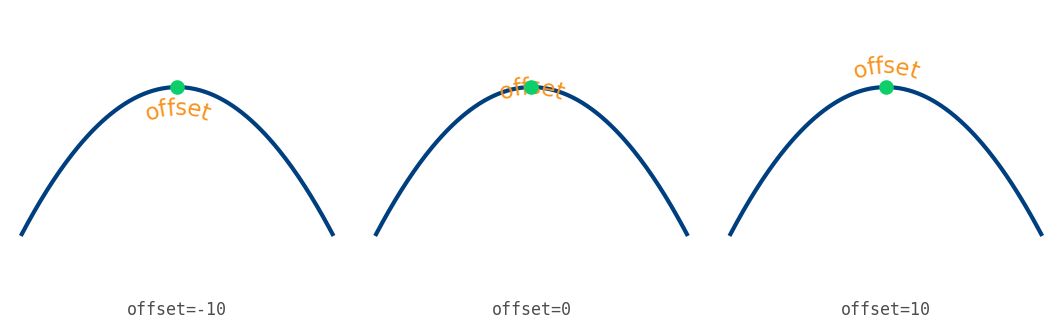
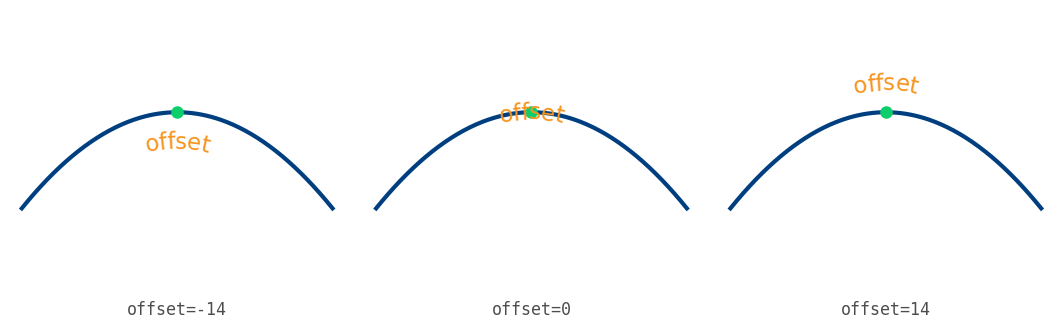
Refine offset example, add CI workflow and status badge

diff --git a/examples/example_05_offset_ladder.py b/examples/example_05_offset_ladder.py
@@ -15,7 +15,7 @@ import numpy as np
 from curved_text import curved_text
 from _style import PALETTE, figure, bare, caption, anchor_xy, save
 
-OFFSETS = [-10.0, 0.0, 10.0]
+OFFSETS = [-14.0, 0.0, 14.0]
 POS = 0.5
 
 
@@ -30,16 +30,20 @@ def make(images_dir):
         bare(ax)
         ax.plot(x, y, color=PALETTE["blue"], linewidth=2)
         ax.set_xlim(-0.05, 1.05)
-        ax.set_ylim(-0.15, 0.7)
-        curved_text(ax, x, y, "offset", pos=POS, anchor="center",
-                    offset=offset, color=PALETTE["gold"], fontsize=11)
+        ax.set_ylim(-0.35, 0.95)
+        label = curved_text(ax, x, y, "offset", pos=POS, anchor="center",
+                            offset=offset, color=PALETTE["gold"], fontsize=11)
+        # Lift the glyphs above the anchor dot so the dot never sits on the
+        # text -- it marks the on-curve reference the offset is measured from.
+        label.set_zorder(5)
         caption(ax, f"offset={offset:g}")
 
+    # Mark the on-curve anchor the offset is measured from, behind the glyphs.
     fig.canvas.draw()
     for ax in axes:
         ax_x, ax_y = anchor_xy(ax, x, y, POS)
-        ax.plot([ax_x], [ax_y], "o", color=PALETTE["green"], markersize=6,
-                zorder=5)
+        ax.plot([ax_x], [ax_y], "o", color=PALETTE["green"], markersize=5,
+                zorder=4)
 
     path = os.path.join(images_dir, "05_offset_ladder.png")
     return save(fig, path)

diff --git a/README.md b/README.md
@@ -1,5 +1,7 @@
 # curved-text
 
+[![CI](https://github.com/thiebes/curved-text/actions/workflows/ci.yml/badge.svg)](https://github.com/thiebes/curved-text/actions/workflows/ci.yml)
+
 Draw text that follows an arbitrary curve in [matplotlib](https://matplotlib.org/).
 
 ![Direct labeling versus a legend](https://raw.githubusercontent.com/thiebes/curved-text/main/examples/images/01_direct_labeling.png)
